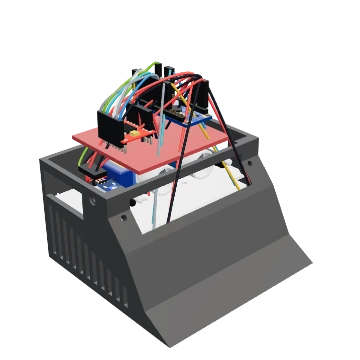
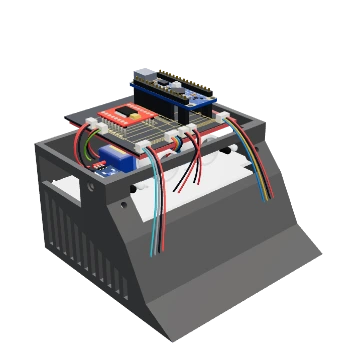
feat(laboratorio): conexiones con PCB en lugar de cables sueltos
- RobotDoc.conexion ('cables' | 'pcb'): con PCB, la placa y el driver van sobre una
  placa de circuito con pistas, y cada pieza de afuera llega con un mazo plano a un
  conector en el borde. El circuito es el mismo; en «Cablear» se ve cable por cable.
- Botón en la barra de «Armar»; Abyss, el seguidor de competencia y el minisumo
  Paladín la traen puesta. Miniaturas nuevas de esos proyectos.

diff --git a/src/modules/laboratorio/ui/modelos/Pcb3D.tsx b/src/modules/laboratorio/ui/modelos/Pcb3D.tsx
@@ -1,0 +1,221 @@
+'use client'
+// Conexiones por PCB: en lugar de un cable suelto por cada conexión, la placa
+// y el driver van sobre una placa de circuito con pistas de cobre, y cada pieza
+// de afuera (sensor, motor, batería) llega con un solo mazo ordenado hasta un
+// conector en el borde. Las conexiones son las mismas del robot (doc.cables):
+// solo cambia cómo se dibujan. Todo en metros, en el marco del robot.
+
+import { useMemo, type ReactNode } from 'react'
+import * as THREE from 'three'
+import { pieza } from '../../catalogo/piezas'
+import { aRobot, poses } from '../../engine/ensamblaje'
+import type { Cable, RobotDoc } from '../../robots/doc'
+import { anclaPin, type SalidaPin } from './Piezas3D'
+
+interface Punta { pos: THREE.Vector3; dir: THREE.Vector3; tipo: SalidaPin['tipo'] }
+export interface CablePuesto { c: Cable; i: number; p: [Punta, Punta] }
+
+const MM = 0.001
+const MARGEN = 5 * MM
+const PASO_PISTA = 0.8 * MM
+const PASO_HILO = 1.1 * MM
+/** Más alto que esto sobre la PCB ya no es un zócalo: esa pieza va aparte. */
+const ZOCALO_MAX = 14
+
+/** Va soldada (o en zócalo) sobre la PCB: la placa y el driver de motores. */
+const vaEnPcb = (id: string) => {
+  const d = pieza(id)
+  return d.familia === 'placa' || d.comportamiento.tipo === 'puente-h'
+}
+
+interface CajaPcb { id: string; x0: number; x1: number; z0: number; z1: number; y0: number }
+export interface PlanoPcb { ids: Set<string>; cajas: CajaPcb[]; x0: number; x1: number; z0: number; z1: number; y: number }
+
+/** Dónde va la PCB: debajo de la placa y del driver, con un margen. null si el robot no tiene ninguno. */
+export function planoPcb(doc: RobotDoc): PlanoPcb | null {
+  const ps = poses(doc)
+  const cajas: CajaPcb[] = []
+  for (const p of doc.piezas) {
+    const pose = ps.get(p.id)
+    if (!p.padre || !pose || !vaEnPcb(p.pieza)) continue
+    const def = pieza(p.pieza)
+    const c = (def.huella ?? def.colisionadores)[0]
+    if (!c || c.forma !== 'caja') continue
+    const k: CajaPcb = { id: p.id, x0: Infinity, x1: -Infinity, z0: Infinity, z1: -Infinity, y0: Infinity }
+    for (const sx of [-1, 1]) for (const sy of [-1, 1]) for (const sz of [-1, 1]) {
+      const v = aRobot(pose, [(c.centro?.[0] ?? 0) + sx * c.medidas[0] / 2, (c.centro?.[1] ?? 0) + sy * c.medidas[1] / 2, (c.centro?.[2] ?? 0) + sz * c.medidas[2] / 2])
+      k.x0 = Math.min(k.x0, v.x); k.x1 = Math.max(k.x1, v.x); k.z0 = Math.min(k.z0, v.z); k.z1 = Math.max(k.z1, v.z); k.y0 = Math.min(k.y0, v.y)
+    }
+    cajas.push(k)
+  }
+  if (!cajas.length) return null
+  const base = Math.min(...cajas.map(k => k.y0))
+  const sobre = cajas.filter(k => k.y0 - base <= ZOCALO_MAX)
+  return {
+    ids: new Set(sobre.map(k => k.id)),
+    cajas: sobre.map(k => ({ ...k, x0: k.x0 * MM, x1: k.x1 * MM, z0: k.z0 * MM, z1: k.z1 * MM, y0: k.y0 * MM })),
+    x0: Math.min(...sobre.map(k => k.x0)) * MM - MARGEN, x1: Math.max(...sobre.map(k => k.x1)) * MM + MARGEN,
+    z0: Math.min(...sobre.map(k => k.z0)) * MM - MARGEN, z1: Math.max(...sobre.map(k => k.z1)) * MM + MARGEN,
+    y: (base + 0.3) * MM,
+  }
+}
+
+type P2 = [number, number]   // (x, z) sobre la PCB
+
+interface Mazo { inst: string; hilos: { color: string; pin: Punta; enPcb: P2 }[]; centro: P2; n: P2; t: P2; ancho: number }
+
+/** Reparte las conexiones: pistas entre lo que está en la PCB, un mazo por cada pieza de afuera, y lo demás suelto. */
+function repartir(pl: PlanoPcb, lista: CablePuesto[]) {
+  const pistas: { puntos: P2[] }[] = []
+  const sueltos: CablePuesto[] = []
+  const porPieza = new Map<string, Mazo['hilos']>()
+  const p2 = (p: Punta): P2 => [p.pos.x, p.pos.z]
+  const internas = lista.filter(x => pl.ids.has(x.c.de[0]) && pl.ids.has(x.c.a[0]))
+  internas.forEach((x, j) => {
+    const A = p2(x.p[0]), B = p2(x.p[1])
+    const ka = pl.cajas.find(k => k.id === x.c.de[0])!, kb = pl.cajas.find(k => k.id === x.c.a[0])!
+    const carril = (j - (internas.length - 1) / 2) * PASO_PISTA
+    const dx = (kb.x0 + kb.x1 - ka.x0 - ka.x1) / 2, dz = (kb.z0 + kb.z1 - ka.z0 - ka.z1) / 2
+    if (ka === kb) pistas.push({ puntos: [A, [A[0], B[1]], B] })
+    else if (Math.abs(dz) >= Math.abs(dx)) {
+      const z = (dz > 0 ? (ka.z1 + kb.z0) / 2 : (ka.z0 + kb.z1) / 2) + carril
+      pistas.push({ puntos: [A, [A[0], z], [B[0], z], B] })
+    } else {
+      const xm = (dx > 0 ? (ka.x1 + kb.x0) / 2 : (ka.x0 + kb.x1) / 2) + carril
+      pistas.push({ puntos: [A, [xm, A[1]], [xm, B[1]], B] })
+    }
+  })
+  for (const x of lista) {
+    const de = pl.ids.has(x.c.de[0]), a = pl.ids.has(x.c.a[0])
+    if (de === a) { if (!de) sueltos.push(x); continue }
+    const [afuera, adentro, inst] = de ? [x.p[1], x.p[0], x.c.a[0]] : [x.p[0], x.p[1], x.c.de[0]]
+    porPieza.set(inst, [...(porPieza.get(inst) ?? []), { color: x.c.color, pin: afuera, enPcb: p2(adentro) }])
+  }
+  // Cada mazo llega al punto del borde más cercano a su pieza; si dos caen juntos, se corren.
+  const mazos: Mazo[] = []
+  const cx = (pl.x0 + pl.x1) / 2, cz = (pl.z0 + pl.z1) / 2
+  for (const [inst, hilos] of Array.from(porPieza)) {
+    const px = hilos.reduce((s, h) => s + h.pin.pos.x, 0) / hilos.length, pz = hilos.reduce((s, h) => s + h.pin.pos.z, 0) / hilos.length
+    const x = Math.min(pl.x1, Math.max(pl.x0, px)), z = Math.min(pl.z1, Math.max(pl.z0, pz))
+    // El borde más cercano (si la pieza está debajo o encima de la PCB, también).
+    const d = [x - pl.x0, pl.x1 - x, z - pl.z0, pl.z1 - z]
+    const borde = d.indexOf(Math.min(...d))
+    const n: P2 = borde === 0 ? [-1, 0] : borde === 1 ? [1, 0] : borde === 2 ? [0, -1] : [0, 1]
+    const t: P2 = [Math.abs(n[1]), Math.abs(n[0])]
+    const ancho = hilos.length * PASO_HILO + 1.6 * MM
+    const adentro = 2.4 * MM
+    let centro: P2 = borde === 0 ? [pl.x0 + adentro, z] : borde === 1 ? [pl.x1 - adentro, z] : borde === 2 ? [x, pl.z0 + adentro] : [x, pl.z1 - adentro]
+    const lim = (c: P2): P2 => (t[0] ? [Math.min(pl.x1 - ancho / 2 - MM, Math.max(pl.x0 + ancho / 2 + MM, c[0])), c[1]] : [c[0], Math.min(pl.z1 - ancho / 2 - MM, Math.max(pl.z0 + ancho / 2 + MM, c[1]))])
+    centro = lim(centro)
+    const choca = (c: P2) => mazos.some(m => m.n[0] === n[0] && m.n[1] === n[1] && Math.abs((c[0] - m.centro[0]) * t[0] + (c[1] - m.centro[1]) * t[1]) < (ancho + m.ancho) / 2 + 0.8 * MM)
+    const hacia = ((t[0] ? cx - centro[0] : cz - centro[1]) >= 0 ? 1 : -1)
+    for (let k = 1; k <= 24 && choca(centro); k++) {
+      const paso = Math.ceil(k / 2) * 1.5 * MM * (k % 2 ? hacia : -hacia)
+      const c = lim([centro[0] + t[0] * paso, centro[1] + t[1] * paso])
+      if (!choca(c)) centro = c
+    }
+    // Los hilos en el orden de los pines de la pieza, para que el mazo no se cruce.
+    const orden = (h: Mazo['hilos'][number]) => h.pin.pos.x * t[0] + h.pin.pos.z * t[1]
+    mazos.push({ inst, hilos: [...hilos].sort((a, b) => orden(a) - orden(b)), centro, n, t, ancho })
+  }
+  // Pistas del conector al pin de la placa o del driver.
+  mazos.forEach(m => m.hilos.forEach((h, k) => {
+    const o = (k - (m.hilos.length - 1) / 2) * PASO_HILO
+    const T: P2 = [m.centro[0] + m.t[0] * o, m.centro[1] + m.t[1] * o]
+    const fondo = (2.2 + k * 0.8) * MM
+    const I: P2 = [T[0] - m.n[0] * fondo, T[1] - m.n[1] * fondo]
+    pistas.push({ puntos: m.n[0] ? [T, I, [I[0], h.enPcb[1]], h.enPcb] : [T, I, [h.enPcb[0], I[1]], h.enPcb] })
+  }))
+  return { pistas, mazos, sueltos }
+}
+
+/** Todas las pistas y sus pads en una sola malla plana. */
+function geometriaPistas(pistas: { puntos: P2[] }[], y: number) {
+  const pos: number[] = []
+  const cuad = (a: P2, b: P2, w: number) => {
+    const dx = b[0] - a[0], dz = b[1] - a[1], l = Math.hypot(dx, dz)
+    if (l < 1e-6) return
+    const nx = (-dz / l) * w, nz = (dx / l) * w, ex = (dx / l) * w, ez = (dz / l) * w
+    const A = [a[0] - ex + nx, a[1] - ez + nz], B = [a[0] - ex - nx, a[1] - ez - nz], C = [b[0] + ex - nx, b[1] + ez - nz], D = [b[0] + ex + nx, b[1] + ez + nz]
+    pos.push(A[0], y, A[1], D[0], y, D[1], B[0], y, B[1], B[0], y, B[1], D[0], y, D[1], C[0], y, C[1])
+  }
+  for (const { puntos } of pistas) {
+    for (let i = 0; i + 1 < puntos.length; i++) cuad(puntos[i], puntos[i + 1], 0.22 * MM)
+    for (const p of [puntos[0], puntos[puntos.length - 1]]) cuad([p[0] - 0.45 * MM, p[1]], [p[0] + 0.45 * MM, p[1]], 0.5 * MM)
+  }
+  const g = new THREE.BufferGeometry()
+  g.setAttribute('position', new THREE.Float32BufferAttribute(pos, 3))
+  g.computeVertexNormals()
+  return g
+}
+
+function Hilo({ desde, n, pin, color }: { desde: THREE.Vector3; n: THREE.Vector3; pin: Punta; color: string }) {
+  const geo = useMemo(() => {
+    const fin = pin.pos.clone().addScaledVector(pin.dir, 0.003)
+    const L = desde.distanceTo(fin), tiron = Math.min(0.02, 0.005 + L * 0.25)
+    const c1 = desde.clone().addScaledVector(n, tiron), c2 = fin.clone().addScaledVector(pin.dir, tiron)
+    c1.y -= L * 0.05; c2.y -= L * 0.05
+    return new THREE.TubeGeometry(new THREE.CubicBezierCurve3(desde, c1, c2, fin), 24, 0.00045, 5, false)
+  }, [desde, n, pin])
+  return <mesh geometry={geo}><meshStandardMaterial color={color} roughness={0.45} /></mesh>
+}
+
+const CAJA = new THREE.BoxGeometry(1, 1, 1)
+
+export function CablesPcb({ doc, lista, suelto }: { doc: RobotDoc; lista: CablePuesto[]; suelto: (x: CablePuesto) => ReactNode }) {
+  const d = useMemo(() => {
+    const pl = planoPcb(doc)
+    if (!pl) return null
+    const r = repartir(pl, lista)
+    // Zócalos: lo que queda levantado sobre la PCB (el Nano en sus tiras de pines) baja hasta ella.
+    const ps = poses(doc)
+    const zocalos: { x: number; z: number; alto: number }[] = []
+    for (const k of pl.cajas) {
+      const alto = k.y0 - pl.y
+      const p = doc.piezas.find(x => x.id === k.id)!
+      const pose = ps.get(k.id)
+      if (alto < 2.5 * MM || !pose) continue
+      const def = pieza(p.pieza)
+      for (const pin of def.pines) {
+        const a = anclaPin(def.modelo, pin.nombre)
+        if (!a) continue
+        const v = aRobot(pose, a)
+        zocalos.push({ x: v.x * MM, z: v.z * MM, alto })
+      }
+    }
+    return { pl, ...r, zocalos, pistas: geometriaPistas(r.pistas, pl.y + 0.12 * MM) }
+  }, [doc, lista])
+  if (!d) return <>{lista.map(suelto)}</>
+  const { pl } = d
+  return (
+    <group>
+      <mesh geometry={CAJA} position={[(pl.x0 + pl.x1) / 2, pl.y - 0.6 * MM, (pl.z0 + pl.z1) / 2]} scale={[pl.x1 - pl.x0, 1.2 * MM, pl.z1 - pl.z0]} receiveShadow>
+        <meshStandardMaterial color="#10151b" roughness={0.55} metalness={0.1} />
+      </mesh>
+      <mesh geometry={d.pistas}>
+        <meshStandardMaterial color="#d9a92f" roughness={0.35} metalness={0.7} side={THREE.DoubleSide} polygonOffset polygonOffsetFactor={-4} polygonOffsetUnits={-4} />
+      </mesh>
+      {d.zocalos.map((z, i) => (
+        <mesh key={`z${i}`} geometry={CAJA} position={[z.x, pl.y + z.alto / 2, z.z]} scale={[2.4 * MM, z.alto, 2.4 * MM]}>
+          <meshStandardMaterial color="#15171a" roughness={0.6} />
+        </mesh>
+      ))}
+      {d.mazos.map(m => {
+        const n = new THREE.Vector3(m.n[0], 0, m.n[1])
+        return (
+          <group key={m.inst}>
+            <mesh geometry={CAJA} position={[m.centro[0], pl.y + 1.9 * MM, m.centro[1]]} scale={[m.t[0] ? m.ancho : 3.4 * MM, 3.8 * MM, m.t[1] ? m.ancho : 3.4 * MM]}>
+              <meshStandardMaterial color="#ece7da" roughness={0.6} />
+            </mesh>
+            {m.hilos.map((h, k) => {
+              const o = (k - (m.hilos.length - 1) / 2) * PASO_HILO
+              const desde = new THREE.Vector3(m.centro[0] + m.t[0] * o + m.n[0] * 1.7 * MM, pl.y + 2 * MM, m.centro[1] + m.t[1] * o + m.n[1] * 1.7 * MM)
+              return <Hilo key={k} desde={desde} n={n} pin={h.pin} color={h.color} />
+            })}
+          </group>
+        )
+      })}
+      {d.sueltos.map(suelto)}
+    </group>
+  )
+}

diff --git a/src/modules/laboratorio/ui/taller/Armar.tsx b/src/modules/laboratorio/ui/taller/Armar.tsx
@@ -8,7 +8,7 @@
 import { useCallback, useEffect, useMemo, useRef, useState } from 'react'
 import dynamic from 'next/dynamic'
 import {
-  AlertTriangle, ChevronDown, ChevronUp, Expand, Info, Loader2, Package, RotateCw, Search, Shrink, Trash2, Undo2, Redo2, X, Cable as IconCable,
+  AlertTriangle, ChevronDown, ChevronUp, Expand, Info, Loader2, Package, RotateCw, Search, Shrink, Trash2, Undo2, Redo2, X, Cable as IconCable, CircuitBoard,
 } from 'lucide-react'
 import Miniatura from './Miniatura'
 import { FAMILIAS, type Familia, type PiezaDef } from '../../catalogo/tipos'
@@ -266,6 +266,13 @@ export default function Armar(p: Props) {
           <span aria-hidden className="mx-1 h-5 w-px bg-lab-borde/20" />
           <BotonIcono titulo={explosion ? 'Juntar piezas' : 'Vista explosionada'} onClick={() => setExplosion(e => !e)} activo={explosion}>{explosion ? <Shrink className="h-4 w-4" /> : <Expand className="h-4 w-4" />}</BotonIcono>
           <BotonIcono titulo={cables ? 'Ocultar cables' : 'Mostrar cables'} onClick={() => setCables(c => !c)} activo={cables}><IconCable className="h-4 w-4" /></BotonIcono>
+          {!banco && (
+            <BotonIcono
+              titulo={doc.conexion === 'pcb' ? 'Conexiones con PCB (toca para volver a los cables sueltos)' : 'Usar una PCB en lugar de cables sueltos'}
+              onClick={() => cambiar({ ...doc, conexion: doc.conexion === 'pcb' ? 'cables' : 'pcb' }, doc.conexion === 'pcb' ? 'Conexiones con cables sueltos' : 'Conexiones con PCB: las mismas conexiones, en pistas y mazos ordenados')}
+              activo={doc.conexion === 'pcb'}
+            ><CircuitBoard className="h-4 w-4" /></BotonIcono>
+          )}
           <BotonIcono titulo="Lista de materiales" onClick={p.onListaMateriales}><Package className="h-4 w-4" /></BotonIcono>
         </div>
 

diff --git a/src/modules/laboratorio/robots/prearmados.ts b/src/modules/laboratorio/robots/prearmados.ts
@@ -48,9 +48,10 @@ class Armador {
     this.doc = r.doc
     return r.id
   }
-  terminar(codigo: (tabla: FilaPin[], doc: RobotDoc) => string): RobotDoc {
+  /** `conexion: 'pcb'`: el robot se muestra con PCB en lugar de cables sueltos (las conexiones son las mismas). */
+  terminar(codigo: (tabla: FilaPin[], doc: RobotDoc) => string, conexion?: RobotDoc['conexion']): RobotDoc {
     const { cables, tabla } = autocablear(this.doc)
-    const doc = { ...this.doc, cables }
+    const doc: RobotDoc = { ...this.doc, cables, ...(conexion ? { conexion } : {}) }
     return { ...doc, programa: { modo: 'codigo', cpp: codigo(tabla, doc) } }
   }
 }
@@ -280,7 +281,7 @@ export function construirSeguidorPro(): RobotDoc {
   a.poner('rueda-loca-chica', 'chasis', 'loca')
   a.poner('sensor-linea-barra', 'chasis', 'piso-izq')
   a.poner('sensor-linea-barra', 'chasis', 'piso-der')
-  return a.terminar(codigoSeguidor)
+  return a.terminar(codigoSeguidor, 'pcb')
 }
 
 
@@ -1011,7 +1012,7 @@ export function construirPaladin(): RobotDoc {
   a.poner('fc51', 'chasis', 'frente-der')
   a.poner('sensor-linea-barra', 'chasis', 'piso-izq')
   a.poner('sensor-linea-barra', 'chasis', 'piso-der')
-  return a.terminar(codigoMinisumo)
+  return a.terminar(codigoMinisumo, 'pcb')
 }
 
 /**
@@ -1200,7 +1201,7 @@ export function construirAbyss(nombre = 'Abyss'): RobotDoc {
   a.poner('rueda-abyss', mi, 'eje')
   a.poner('rueda-abyss', md, 'eje')
   a.poner('tambor-abyss', 'chasis', 'arma')
-  return a.terminar(codigoBattlebotRc)
+  return a.terminar(codigoBattlebotRc, 'pcb')
 }
 
 /** El rival de práctica de cada arena de competencia. */

diff --git a/src/modules/laboratorio/__tests__/pcb.test.ts b/src/modules/laboratorio/__tests__/pcb.test.ts
@@ -1,0 +1,29 @@
+// Conexiones con PCB: las mismas conexiones del robot, dibujadas como pistas y mazos.
+import { describe, expect, it } from 'vitest'
+import { planoPcb } from '../ui/modelos/Pcb3D'
+import { planDe } from '../engine/plan'
+import { PREARMADOS, construirAbyss, construirMinisumo, construirPaladin, construirSeguidorPro } from '../robots/prearmados'
+
+describe('PCB', () => {
+  it('los tres robots de competencia vienen con PCB; los demás, con cables', () => {
+    for (const d of [construirAbyss(), construirSeguidorPro(), construirPaladin()]) expect(d.conexion).toBe('pcb')
+    expect(construirMinisumo().conexion).toBeUndefined()
+  })
+
+  it('la PCB queda debajo de la placa y del driver, y no cambia el circuito', () => {
+    const d = construirPaladin()
+    const pl = planoPcb(d)!
+    expect(pl.ids.size).toBe(2)
+    // Nano (45 × 18) y TB6612 (20 × 20) con margen: una placa de unos 6 × 6 cm como mucho.
+    expect(pl.x1 - pl.x0).toBeLessThan(0.065)
+    expect(pl.z1 - pl.z0).toBeLessThan(0.065)
+    expect(JSON.stringify(planDe({ ...d, conexion: 'cables' }))).toBe(JSON.stringify(planDe(d)))
+  })
+
+  it('cualquier robot con placa puede pasar a PCB', () => {
+    for (const p of PREARMADOS.filter(x => (x.categoria ?? 'robot') === 'robot')) {
+      const d = p.construir()
+      if (d.piezas.length > 1) expect(planoPcb(d), p.id).not.toBeNull()
+    }
+  })
+})

diff --git a/src/modules/laboratorio/ui/Robot3D.tsx b/src/modules/laboratorio/ui/Robot3D.tsx
@@ -23,6 +23,7 @@ import {
   PerroRobot, ikPata, RADIO_PIE, type PataPerro, SensorBarra,
 } from './modelos/Piezas3D'
 import { PerroGo1 } from './modelos/Robots3D'
+import { CablesPcb } from './modelos/Pcb3D'
 import { SEPARADOR_PISO } from '../catalogo/piezas/chasis'
 import { AGUJEROS_RIEL, ALTO_PROTOBOARD, RIELES, agujeroRiel, xRiel } from '../catalogo/piezas/circuito'
 import { CircuitoVivoContexto, ModeloCircuito, esModeloCircuito, type CircuitoVivo } from './modelos/Circuito3D'
@@ -432,6 +433,8 @@ function Cables({ doc, cableado }: { doc: RobotDoc; cableado?: Cableado3D }) {
   }, [doc])
   const sel = cableado?.cableSel ?? null
   const elegir = cableado?.onCable
+  // Con PCB: pistas y mazos en lugar de cables sueltos. En «Cablear» se ve cada conexión como cable, para poder tocarla.
+  if (doc.conexion === 'pcb' && !cableado) return <CablesPcb doc={doc} lista={lista} suelto={({ c, i, p }) => <Cable key={i} a={p[0]} b={p[1]} color={c.color} />} />
   return <>{lista.map(({ c, i, p }) => (
     <Cable key={i} a={p[0]} b={p[1]} color={c.color} sel={sel === i} tenue={sel !== null && sel !== i} onClick={elegir ? () => elegir(i) : undefined} />
   ))}</>

diff --git a/src/modules/laboratorio/ui/taller/Cablear.tsx b/src/modules/laboratorio/ui/taller/Cablear.tsx
@@ -254,6 +254,9 @@ export default function Cablear({ doc, cambiar, nivel, onNivel }: Props) {
           <span className="lab-etiqueta hidden shrink-0 xl:inline">
             {doc.cableado === 'manual' ? 'Cableado a mano' : 'Cableado automático'}
           </span>
+          {doc.conexion === 'pcb' && (
+            <span className="lab-etiqueta hidden shrink-0 xl:inline" title="Este robot usa una PCB. Aquí ves cada conexión como un cable para entenderla y poder cambiarla; en Armar y Probar van como pistas de la placa y un mazo por pieza.">Con PCB</span>
+          )}
           <span className="min-w-0 flex-1 truncate text-lab-suave">
             {elegido ? <>Ahora toca el otro pin para unir <b className="text-lab-tinta">{elegido[1]}</b> · toca el mismo para cancelar</>
               : vista === '3d' ? 'Toca una pieza para acercarte. Toca un pin y luego otro para poner un cable.'

diff --git a/src/modules/laboratorio/robots/doc.ts b/src/modules/laboratorio/robots/doc.ts
@@ -30,6 +30,9 @@ export interface RobotDoc {
   /** 'auto' (por defecto): los cables se rehacen solos al cambiar piezas.
    *  'manual': se respetan los del alumno y solo se conectan las piezas nuevas. */
   cableado?: 'auto' | 'manual'
+  /** Cómo se hacen las conexiones en el robot armado: con cables sueltos (por defecto)
+   *  o con una PCB (pistas de cobre y un mazo por pieza). Las conexiones son las mismas. */
+  conexion?: 'cables' | 'pcb'
   /** En bloques, `cpp` es el código generado (se rehace al cambiar bloques o cables). */
   programa: { modo: 'codigo'; cpp: string } | { modo: 'bloques'; bloques: ProgramaBloques; cpp: string }
 }

diff --git a/src/modules/laboratorio/__tests__/seguidorPro.test.ts b/src/modules/laboratorio/__tests__/seguidorPro.test.ts
@@ -23,7 +23,8 @@ describe('seguidor de competencia', () => {
     expect(r.masa_g).toBeLessThan(200)
     expect(r.min.y).toBeCloseTo(-14.5, 0)   // se apoya en las ruedas de 42 mm
     // El programa de prueba (fixtures/fuentes/seguidorpro.ino) es el del proyecto.
-    expect(fx('fuentes/seguidorpro.ino')).toBe(d.programa.cpp)
+    // (git puede dejar el archivo con CRLF en Windows: se compara sin los \r)
+    expect(fx('fuentes/seguidorpro.ino').split('\r').join('')).toBe(d.programa.cpp)
   })
 
   it('recorre el óvalo con su programa real sin salirse de la línea', () => {

diff --git a/docs/superpowers/plans/2026-10-28-laboratorio-hoja-de-ruta.md b/docs/superpowers/plans/2026-10-28-laboratorio-hoja-de-ruta.md
@@ -176,6 +176,13 @@ con sus piezas de catálogo, proyecto en la galería y prueba de física:
   `paladin.test.ts` (mismo programa y cableado que el minisumo; gana 2 a 0).
 Los modelos de Tinkercad (una malla por color) se separan por sólidos sueltos
 (`dentro` / `fuera` en `preparar-robots.mjs`); los de CAD, por nombre de nodo.
+Conexiones con PCB (mismo día, pedido del usuario para evitar la maraña de
+cables): `RobotDoc.conexion: 'cables' | 'pcb'`. Con `pcb`, `ui/modelos/Pcb3D.tsx`
+dibuja una placa bajo la placa y el driver, las conexiones entre ellos como
+pistas, y un mazo plano por cada pieza de afuera hasta un conector en el borde.
+El circuito no cambia (`doc.cables` es el mismo): en «Cablear» se sigue viendo
+cable por cable. Botón en la barra de «Armar»; los tres robots de competencia
+la traen puesta. Prueba: `pcb.test.ts`.
 Falta: M4 y M5; otros robots de combate bajados (Fathom, RipTide, Ant) y el
 minisumo «Paladino» grande, sin integrar.
 
